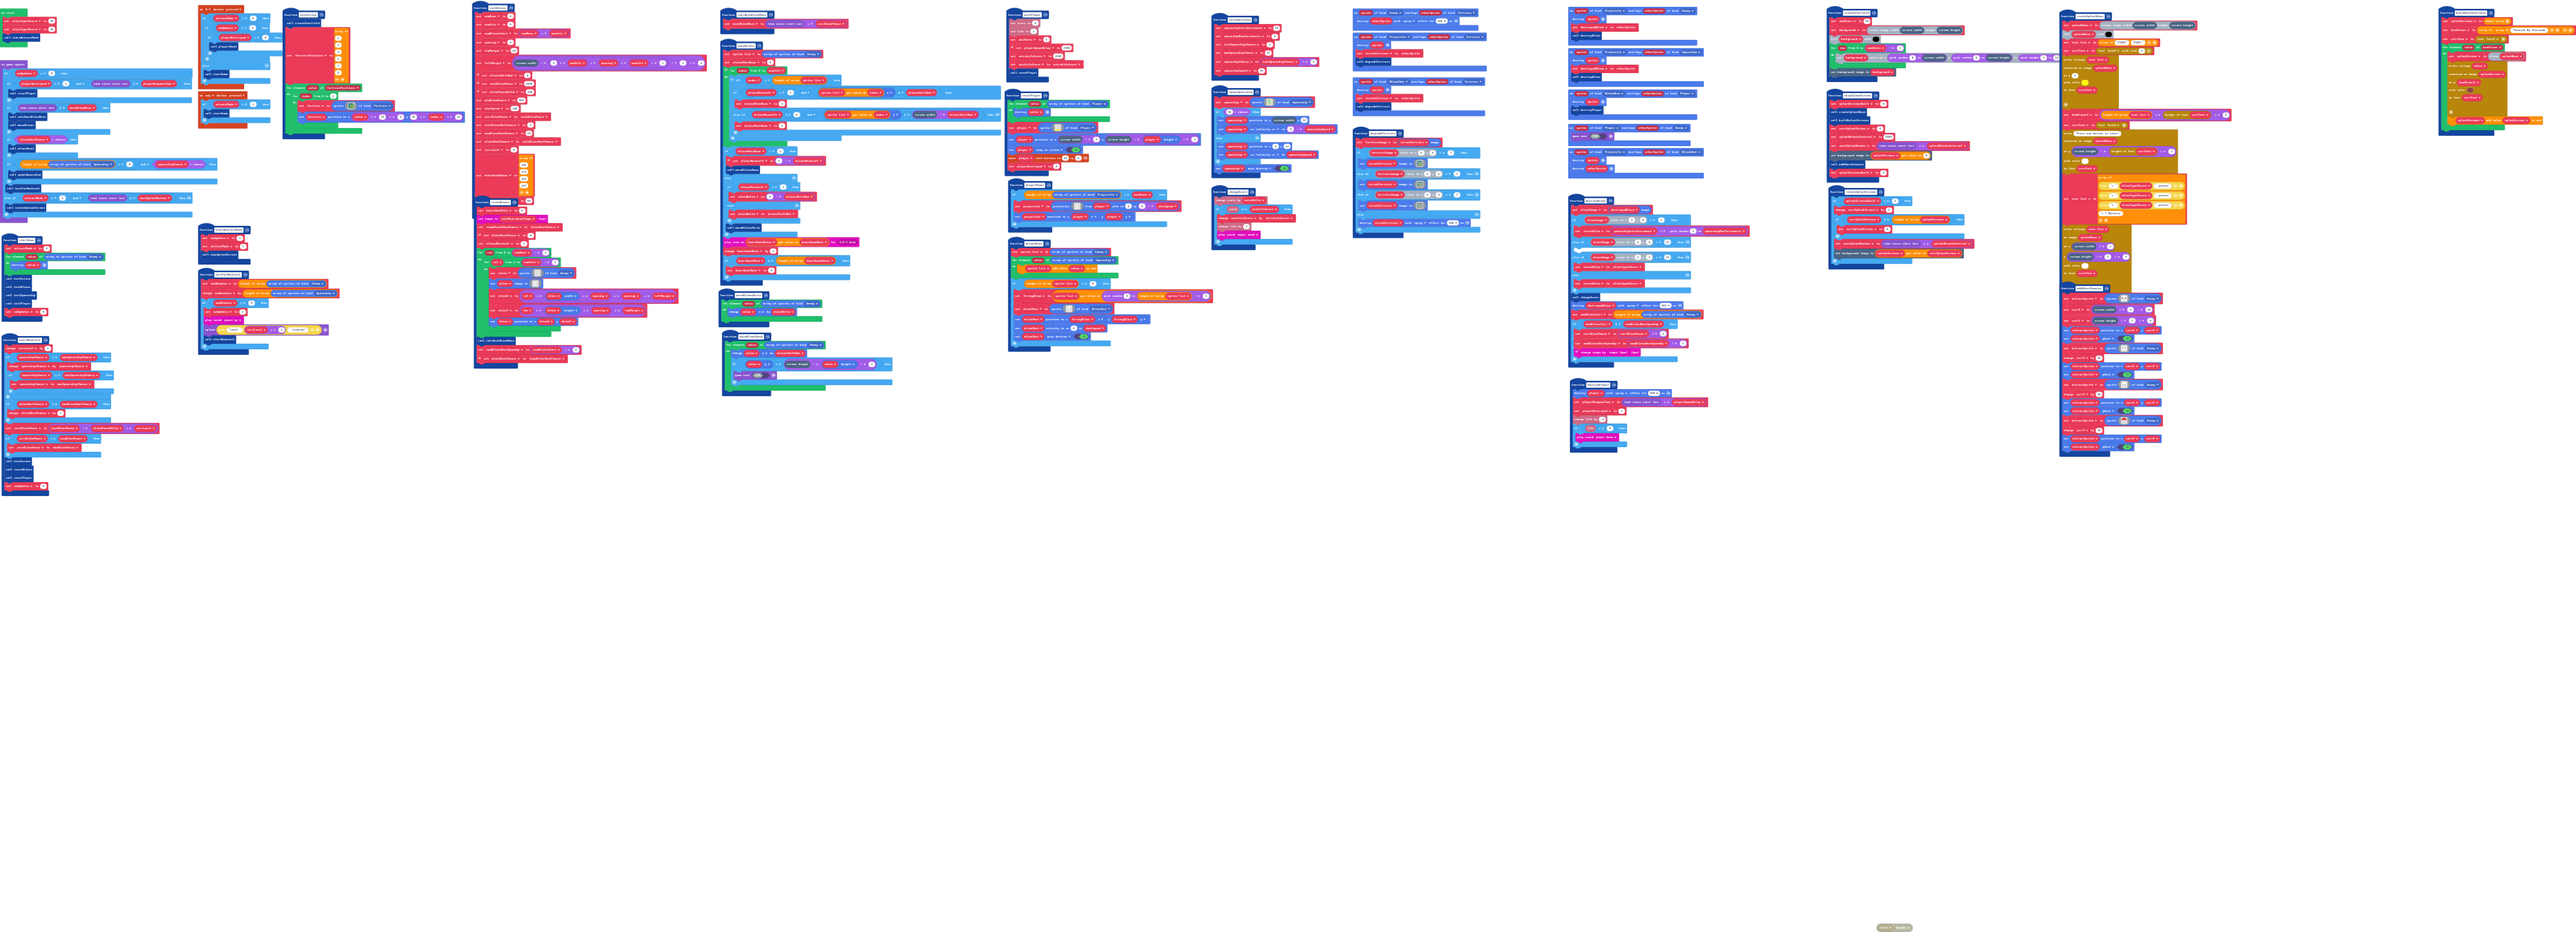
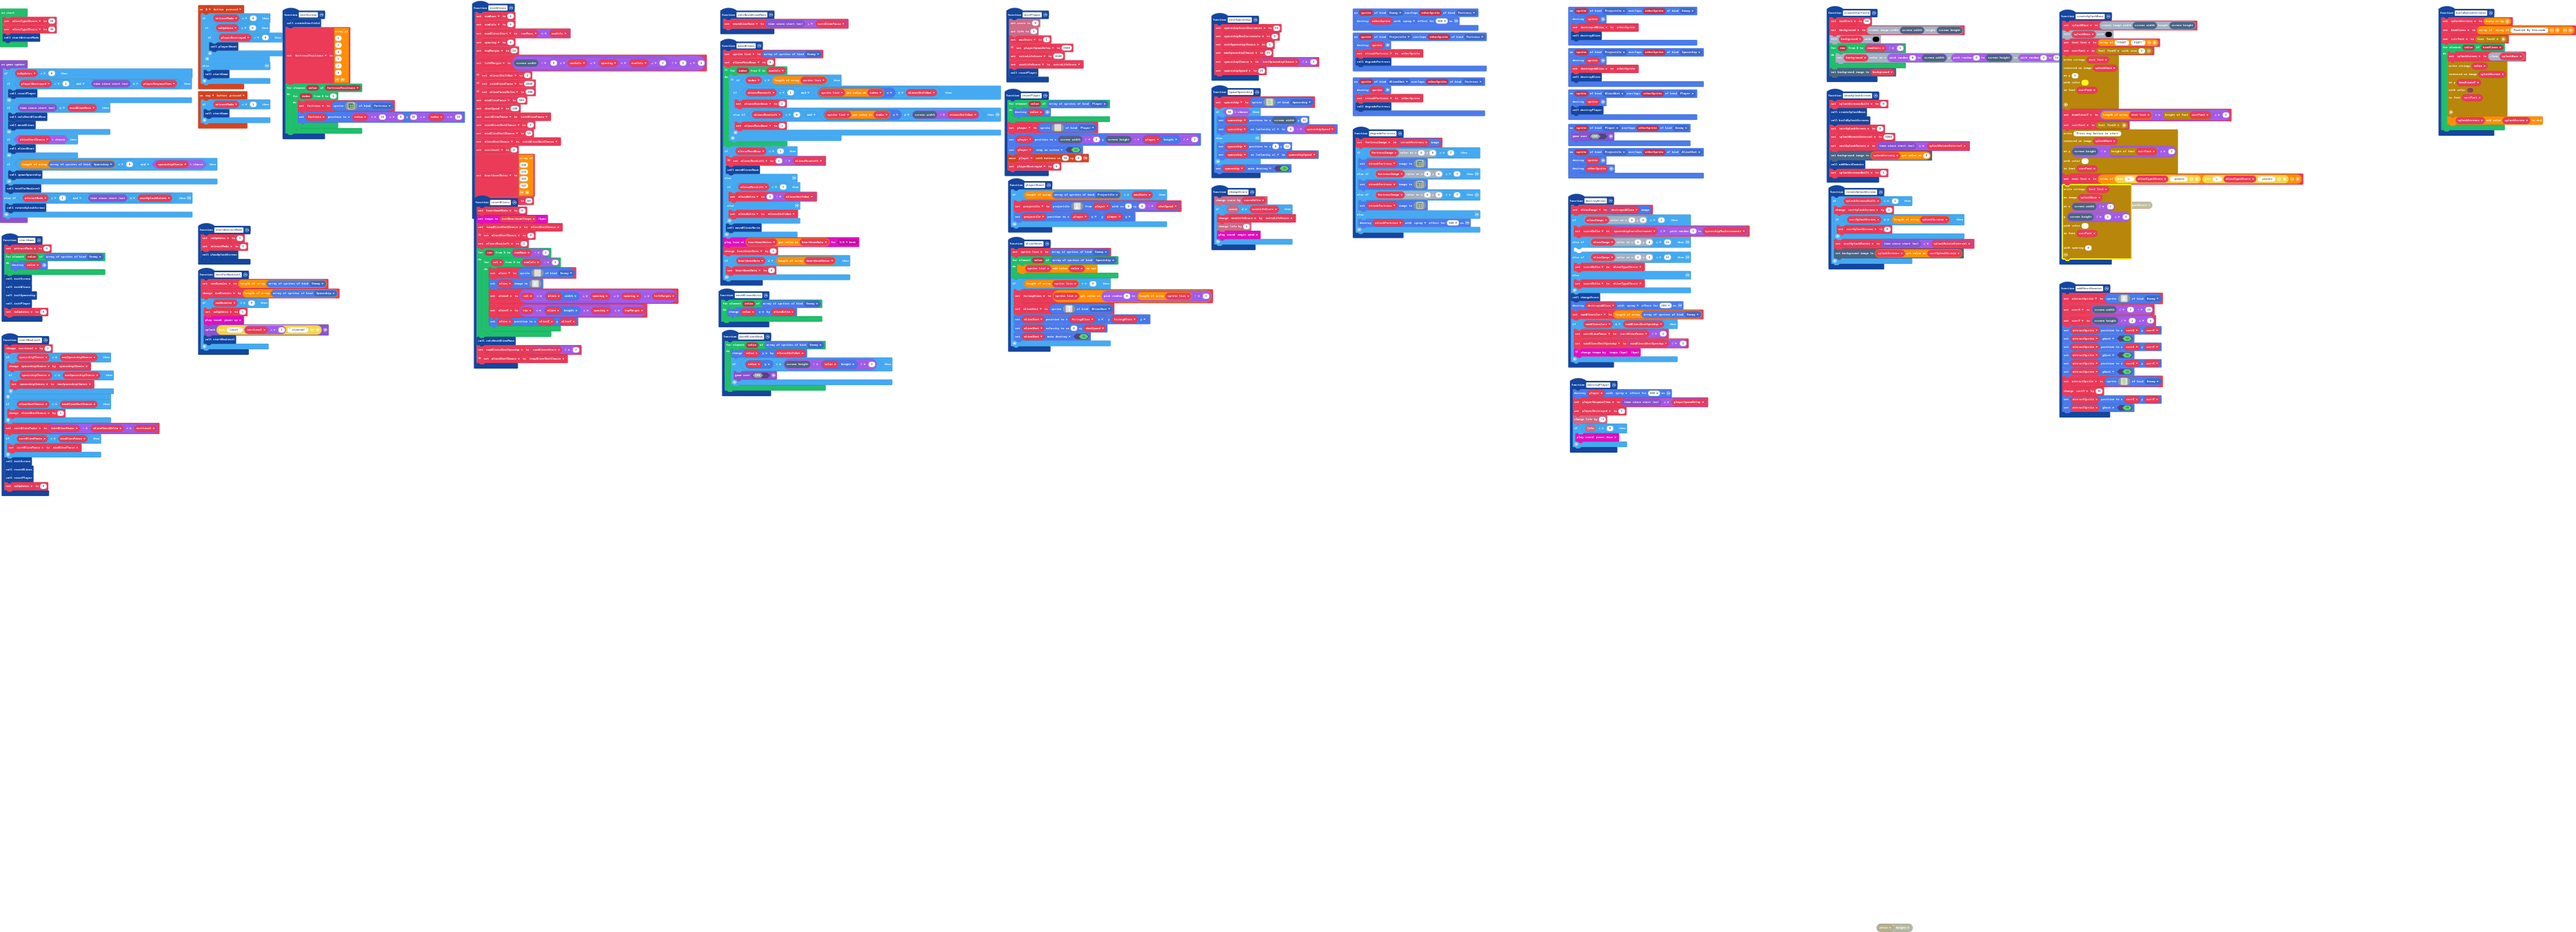
Update main.blocks, main.ts

Changed region(s): [[0.7762, 0.1863, 0.9004, 0.3104], [0.7762, 0.3415, 0.8383, 0.4967]]

diff --git a/main.ts b/main.ts
@@ -236,7 +236,6 @@ sprites.onOverlap(SpriteKindLegacy.Enemy, SpriteKindLegacy.Fortress, function (s
     otherSprite.destroy(effects.spray, 500)
 })
 function createSplashBase () {
-    let alienType3Score = 0
     splashBase = image.create(scene.screenWidth(), scene.screenHeight())
     splashBase.fill(15)
     text_list = ["FIGHT", "FIAT!"]
@@ -257,12 +256,7 @@ function createSplashBase () {
     1,
     currFont
     )
-    text_list = [
-    "= " + alienType1Score + " points",
-    "= " + alienType2Score + " points",
-    "= " + alienType3Score + " points",
-    "= ? Mystery"
-    ]
+    text_list = ["= " + alienType1Score + " points", "= " + alienType2Score + " points"]
     drawStrings.writeMultiple(
     text_list,
     splashBase,
@@ -270,7 +264,7 @@ function createSplashBase () {
     scene.screenHeight() / 2 + 0,
     1,
     currFont,
-    2
+    8
     )
 }
 function showSplashScreen () {
@@ -286,60 +280,38 @@ function showSplashScreen () {
 }
 function addGhostEnemies () {
     attractSprite = sprites.create(img`
-        . . . 1 1 . . . 
-        . 1 1 1 1 1 1 . 
-        1 1 1 1 1 1 1 1 
-        1 f f 1 1 f f 1 
-        1 1 1 1 1 1 1 1 
-        . . 1 . . 1 . . 
-        . 1 . . . . 1 . 
-        1 . . 1 1 . . 1 
+        . . . . . . . . 
+        . . . . 1 . . . 
+        . . 1 1 1 1 . . 
+        . . 1 . . . . . 
+        . . 1 . . . . . 
+        . . 1 1 1 1 . . 
+        . . . . 1 . . . 
+        . . . . . . . . 
         `, SpriteKindLegacy.Enemy)
     currX = scene.screenWidth() / 2 - 10
     currY = scene.screenHeight() / 2 + 4
     attractSprite.setPosition(currX, currY)
     attractSprite.setFlag(SpriteFlag.Ghost, true)
-    attractSprite = sprites.create(img`
-        . 1 . . . . 1 . 
-        . . 1 . . 1 . . 
-        1 . 1 1 1 1 . 1 
-        1 1 f 1 1 f 1 1 
-        1 1 1 1 1 1 1 1 
-        . 1 1 1 1 1 1 . 
-        . . 1 . . 1 . . 
-        . 1 . . . . 1 . 
-        `, SpriteKindLegacy.Enemy)
-    currY += 10
+    attractSprite.setPosition(currX, currY)
+    attractSprite.setFlag(SpriteFlag.Ghost, true)
     attractSprite.setPosition(currX, currY)
     attractSprite.setFlag(SpriteFlag.Ghost, true)
     attractSprite = sprites.create(img`
-        . . . 1 1 . . . 
-        . . 1 1 1 1 . . 
-        . 1 1 1 1 1 1 . 
-        1 1 1 1 1 1 1 1 
-        1 1 f 1 1 f 1 1 
-        . . 1 . . 1 . . 
-        . 1 . 1 1 . 1 . 
-        1 . 1 . . 1 . 1 
-        `, SpriteKindLegacy.Enemy)
-    currY += 10
-    attractSprite.setPosition(currX, currY)
-    attractSprite.setFlag(SpriteFlag.Ghost, true)
-    attractSprite = sprites.create(img`
-        . . . . . 2 2 2 2 2 2 . . . . . 
-        . . . 2 2 2 2 2 2 2 2 2 2 . . . 
-        . . 2 2 2 2 2 2 2 2 2 2 2 2 . . 
-        . 2 2 f 2 f 2 f f 2 f 2 f 2 2 . 
-        2 2 2 2 2 2 2 2 2 2 2 2 2 2 2 2 
-        . 2 2 2 . . 2 2 2 2 . . 2 2 2 . 
-        . . 2 . . . . . . . . . . 2 . . 
         . . . . . . . . . . . . . . . . 
-        . . . . . . . . . . . . . . . . 
-        . . . . . . . . . . . . . . . . 
-        . . . . . . . . . . . . . . . . 
-        . . . . . . . . . . . . . . . . 
-        . . . . . . . . . . . . . . . . 
-        . . . . . . . . . . . . . . . . 
+        . . . . . 7 . . . 7 . . . . . . 
+        . . . 7 7 7 7 7 7 7 7 7 . . . . 
+        . . . 7 . 7 . . . 7 . . . . . . 
+        . . . 7 . 7 . . . 7 . . . . . . 
+        . . . 7 . 7 . . . 7 . . . . . . 
+        . . . 7 . 7 . . . 7 . . . . . . 
+        . . . 7 7 7 7 7 7 7 7 7 . . . . 
+        . . . . . 7 . . . 7 . 7 . . . . 
+        . . . . . 7 . . . 7 . 7 . . . . 
+        . . . . . 7 . . . 7 . 7 . . . . 
+        . . . . . 7 . . . 7 . 7 . . . . 
+        . . . 7 7 7 7 7 7 7 7 7 . . . . 
+        . . . . . 7 . . . 7 . . . . . . 
         . . . . . . . . . . . . . . . . 
         . . . . . . . . . . . . . . . . 
         `, SpriteKindLegacy.Enemy)
